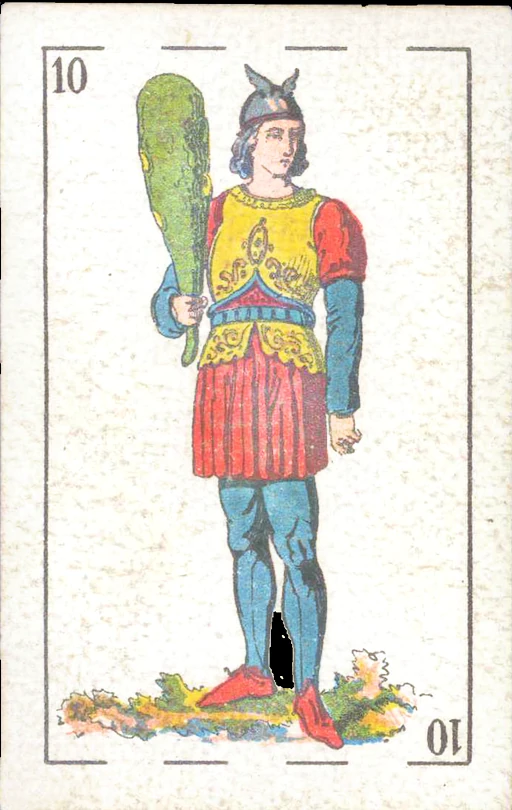
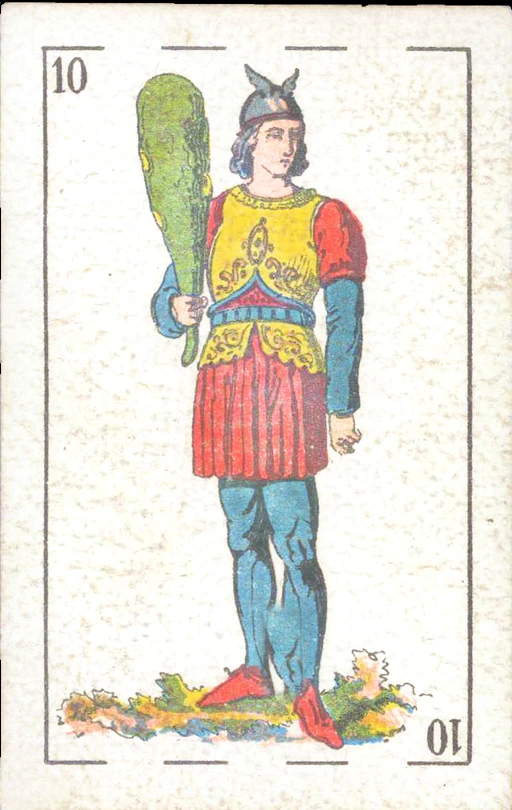
feat(mesa): manos en abanico y dorso rojo clásico
- Manos del jugador y del rival en abanico; mesa plana.
- Dorso clásico rojo/oro original y caché de cartas v5.
- Sota restaurada, zonas separadas y triunfo bajo el mazo.
- README, créditos y capturas actualizadas.

Changed region(s): [[0.5, 0.7407, 0.5938, 0.8642]]

diff --git a/packages/client/src/graphics/tableScene.ts b/packages/client/src/graphics/tableScene.ts
@@ -156,8 +156,8 @@ export class TableScene {
       Math.PI / 4,
       0.55,
     );
-    this.trumpSpotlight.position.set(-2.0, 6, -0.5);
-    this.trumpSpotlight.target.position.set(-2.0, 0, -0.5);
+    this.trumpSpotlight.position.set(-4.0, 6, -0.5);
+    this.trumpSpotlight.target.position.set(-4.0, 0, -0.5);
     this.scene.add(this.trumpSpotlight);
     this.scene.add(this.trumpSpotlight.target);
   }
@@ -428,19 +428,23 @@ export class TableScene {
 
       entry.isPlayerHand = true;
       const count = myHand.length;
-      const spreadX = 2.2;
+      // Held hand: the cards stand up in a fan at the bottom edge, facing the
+      // camera. The table groups (trick, deck, trump, rival) stay flat.
+      const spreadX = count === 2 ? 3.4 : 3.0;
       const offsetX = (idx - (count - 1) / 2) * spreadX;
-
-      const baseZ = 2.4;
-      // baseY elevated so that tilted cards (-0.20 rad) never penetrate the table (y=0)
-      const baseY = 0.44 + idx * 0.015;
+      const fan = idx - (count - 1) / 2;
+      const baseZ = 4.9 + (count === 3 && idx === 1 ? 0.08 : 0);
+      const baseY = 1.5 + (count === 3 && idx === 1 ? 0.1 : 0);
+      const tilt = THREE.MathUtils.degToRad(66);
+      const yaw = fan * -0.1;
+      const roll = fan * -0.07;
 
       if (entry.isHovered && isMyTurn) {
-        entry.targetPos.set(offsetX, baseY + 0.45, baseZ - 0.35);
-        entry.targetRot.set(-0.3, 0, (idx - (count - 1) / 2) * -0.03);
+        entry.targetPos.set(offsetX, baseY + 0.35, baseZ + 0.25);
+        entry.targetRot.set(THREE.MathUtils.degToRad(50), yaw, roll);
       } else {
         entry.targetPos.set(offsetX, baseY, baseZ);
-        entry.targetRot.set(-0.2, 0, (idx - (count - 1) / 2) * -0.05);
+        entry.targetRot.set(tilt, yaw, roll);
       }
     });
 
@@ -465,11 +469,21 @@ export class TableScene {
         this.cardsMap.set(oppId, entry);
       }
 
-      const spreadX = 2.2;
+      // Rival hand: a held fan of backs at the far edge, mirroring the player.
+      const spreadX = opponentCount === 2 ? 3.4 : 3.0;
       const offsetX = (i - (opponentCount - 1) / 2) * spreadX;
-      entry.targetPos.set(offsetX, 0.12 + i * 0.02, -3.8);
-      // Face down
-      entry.targetRot.set(Math.PI, 0, 0);
+      const fan = i - (opponentCount - 1) / 2;
+      entry.targetPos.set(
+        offsetX,
+        1.35 + (opponentCount === 3 && i === 1 ? 0.1 : 0),
+        -3.6,
+      );
+      // Face down + tilt back, so the back faces the camera.
+      entry.targetRot.set(
+        Math.PI + THREE.MathUtils.degToRad(66),
+        fan * 0.1,
+        fan * 0.07,
+      );
     }
 
     // 3. Trump card (left, face up at 90 deg)
@@ -489,37 +503,44 @@ export class TableScene {
         };
         this.cardsMap.set(trumpCard.id, entry);
       }
-      // Positioned so its right face and rank index stick out cleanly from under the deck
-      entry.targetPos.set(-2.0, 0.06, -0.5);
+      // The trump is face up UNDER the deck: the stack covers its left side
+      // and the right part (rank/face) peeks out, as in the real game.
+      entry.targetPos.set(-4.0, 0.02, -0.5);
       entry.targetRot.set(0, Math.PI / 2, 0);
     }
 
-    // 4. Deck stack (on top of trump card, crossed)
+    // 4. Deck stack (three cards on top of the face-up trump)
     if (deckCount > 0) {
-      const deckId = "deck_stack";
-      activeIds.add(deckId);
-      let entry = this.cardsMap.get(deckId);
-      if (!entry) {
-        const dummyCard: Card = {
-          id: deckId,
-          suit: "copas",
-          rank: 1,
-          points: 0,
-        };
-        const mesh = this.createCardMesh(dummyCard);
-        this.scene.add(mesh);
-        entry = {
-          mesh,
-          card: dummyCard,
-          targetPos: new THREE.Vector3(),
-          targetRot: new THREE.Euler(),
-          isHovered: false,
-          isPlayerHand: false,
-        };
-        this.cardsMap.set(deckId, entry);
+      for (let layer = 0; layer < 3; layer += 1) {
+        const deckId = layer === 0 ? "deck_stack" : `deck_stack_${layer}`;
+        activeIds.add(deckId);
+        let entry = this.cardsMap.get(deckId);
+        if (!entry) {
+          const dummyCard: Card = {
+            id: deckId,
+            suit: "copas",
+            rank: 1,
+            points: 0,
+          };
+          const mesh = this.createCardMesh(dummyCard);
+          this.scene.add(mesh);
+          entry = {
+            mesh,
+            card: dummyCard,
+            targetPos: new THREE.Vector3(),
+            targetRot: new THREE.Euler(),
+            isHovered: false,
+            isPlayerHand: false,
+          };
+          this.cardsMap.set(deckId, entry);
+        }
+        entry.targetPos.set(
+          -4.7 + layer * 0.025,
+          0.046 + layer * 0.026 + Math.min(deckCount, 30) * 0.0003,
+          -0.5 + layer * 0.02,
+        );
+        entry.targetRot.set(Math.PI, 0, 0.04 + layer * 0.012);
       }
-      entry.targetPos.set(-4.9, 0.09 + deckCount * 0.003, -0.5);
-      entry.targetRot.set(Math.PI, 0, 0.04);
     }
 
     // 5. Current Trick (Center table)
@@ -539,8 +560,9 @@ export class TableScene {
         };
         this.cardsMap.set(currentTrick.leadCard.id, entry);
       }
-      entry.targetPos.set(-0.95, 0.08, -0.5);
-      entry.targetRot.set(0, 0, -0.05);
+      // Trick cards lie flat and side by side in the centre zone.
+      entry.targetPos.set(-0.35, 0.015, -0.5);
+      entry.targetRot.set(0, 0, -0.03);
     }
 
     if (currentTrick.followCard) {
@@ -559,8 +581,8 @@ export class TableScene {
         };
         this.cardsMap.set(currentTrick.followCard.id, entry);
       }
-      entry.targetPos.set(0.95, 0.1, -0.5);
-      entry.targetRot.set(0, 0, 0.05);
+      entry.targetPos.set(0.35, 0.045, -0.55);
+      entry.targetRot.set(0, 0, 0.03);
     }
 
     // Cleanup cards no longer in play

diff --git a/packages/client/src/graphics/cardTextures.ts b/packages/client/src/graphics/cardTextures.ts
@@ -3,7 +3,7 @@ import { Card } from "@brisca/core";
 
 // Bump when the card art changes so clients and the PWA cache fetch the
 // restored versions instead of serving the previous deck.
-const CARD_VERSION = "3";
+const CARD_VERSION = "5";
 
 const loader = new THREE.TextureLoader();
 const textureCache = new Map<string, THREE.Texture>();
@@ -20,7 +20,7 @@ export function getCardTexture(card: Card): THREE.Texture {
   texture.minFilter = THREE.LinearMipmapLinearFilter;
   texture.magFilter = THREE.LinearFilter;
   // Keep the old paper grain sharp when cards are seen at an angle.
-  texture.anisotropy = 8;
+  texture.anisotropy = 16;
   textureCache.set(url, texture);
   return texture;
 }
@@ -37,7 +37,7 @@ export function getCardBackTexture(): THREE.Texture {
   texture.minFilter = THREE.LinearMipmapLinearFilter;
   texture.magFilter = THREE.LinearFilter;
   // Keep the old paper grain sharp when cards are seen at an angle.
-  texture.anisotropy = 8;
+  texture.anisotropy = 16;
   textureCache.set(url, texture);
   return texture;
 }

diff --git a/CREDITS.md b/CREDITS.md
@@ -6,7 +6,7 @@
 
 - Fuente: [Wikimedia Commons — Heraclio Fournier's 1878 card deck](https://commons.wikimedia.org/wiki/Category:Heraclio_Fournier%E2%80%99s_1878_card_deck)
 - Licencia: **dominio público** (los 42 archivos originales están marcados como tal).
-- Adaptación para el juego: recorte de márgenes, normalización a 512×810, restauración de papel y color (nivel B) y conversión a WebP.
+- Adaptación para el juego: recorte de márgenes, normalización a 512×810, restauración de papel y color (nivel B), limpieza del agujero de escaneo de la Sota de bastos y conversión a WebP. El reverso es un diseño original de inspiración clásica española (rojo y oro); no reproduce el dorso actual de Fournier, que sigue protegido. El reverso escaneado de 1878 es un patrón floral muy denso que produce muaré a tamaño pequeño.
 - «Fournier» es una marca de Naipes Heraclio Fournier, S.A. Este proyecto no está afiliado ni patrocinado por Fournier; usa una baraja histórica en dominio público.
 
 ## Código, 3D y sonido

diff --git a/README.md b/README.md
@@ -15,7 +15,8 @@
 
 ## 🌟 Características
 
-- **Baraja Española (40 cartas)** con el arte de la **baraja Fournier de 1878** (dominio público, Museo Fournier de Naipes), normalizada y restaurada a 512×810 WebP.
+- **Manos en abanico:** tus cartas se ven sujetas y el rival enseña los reversos; la baza, el mazo y el triunfo siguen planos sobre el tapete.
+- **Baraja Española (40 cartas)** con el arte de la **baraja Fournier de 1878** (dominio público, Museo Fournier de Naipes), normalizada y restaurada a 512×810 WebP, con reverso rojo clásico original inspirado en la baraja española.
 - **Estética arcade Balatro**: mesa 3D, cartas con volumen, partículas, _screen shake_ y filtro CRT.
 - **Online en tiempo real**:
   - Salas privadas con código de 4 letras y enlace directo (`?room=ABCD`).
